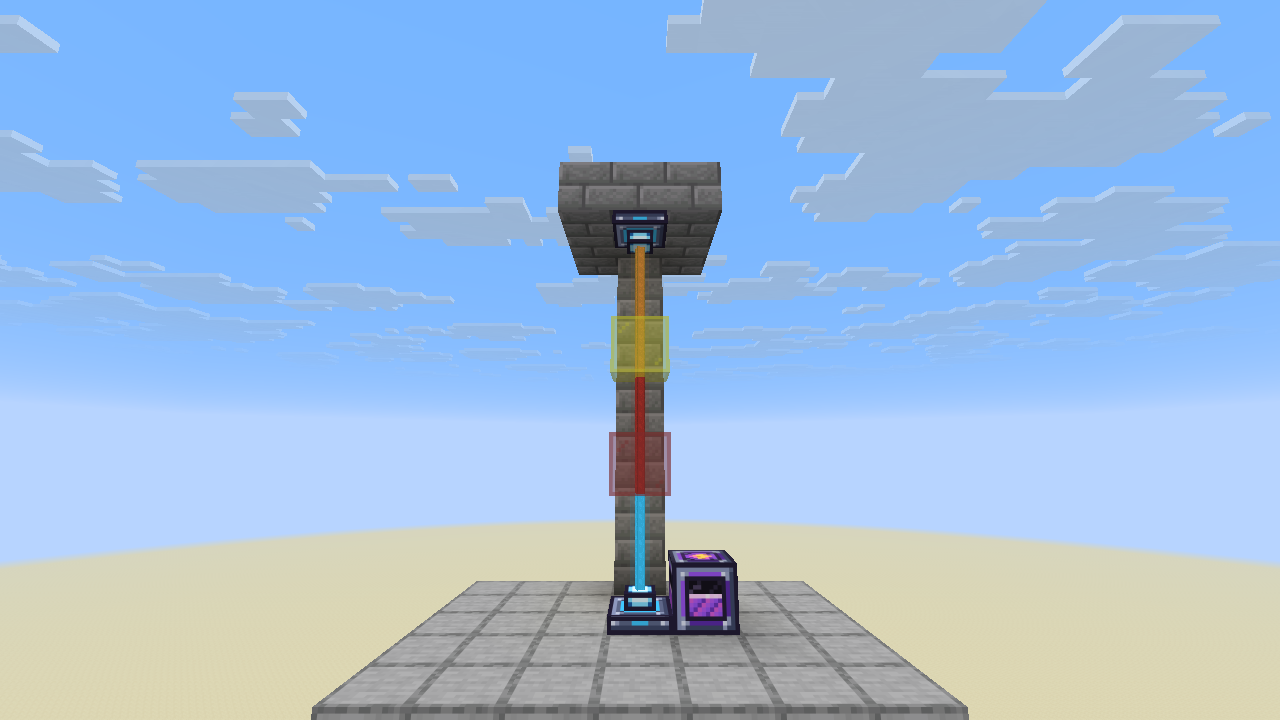
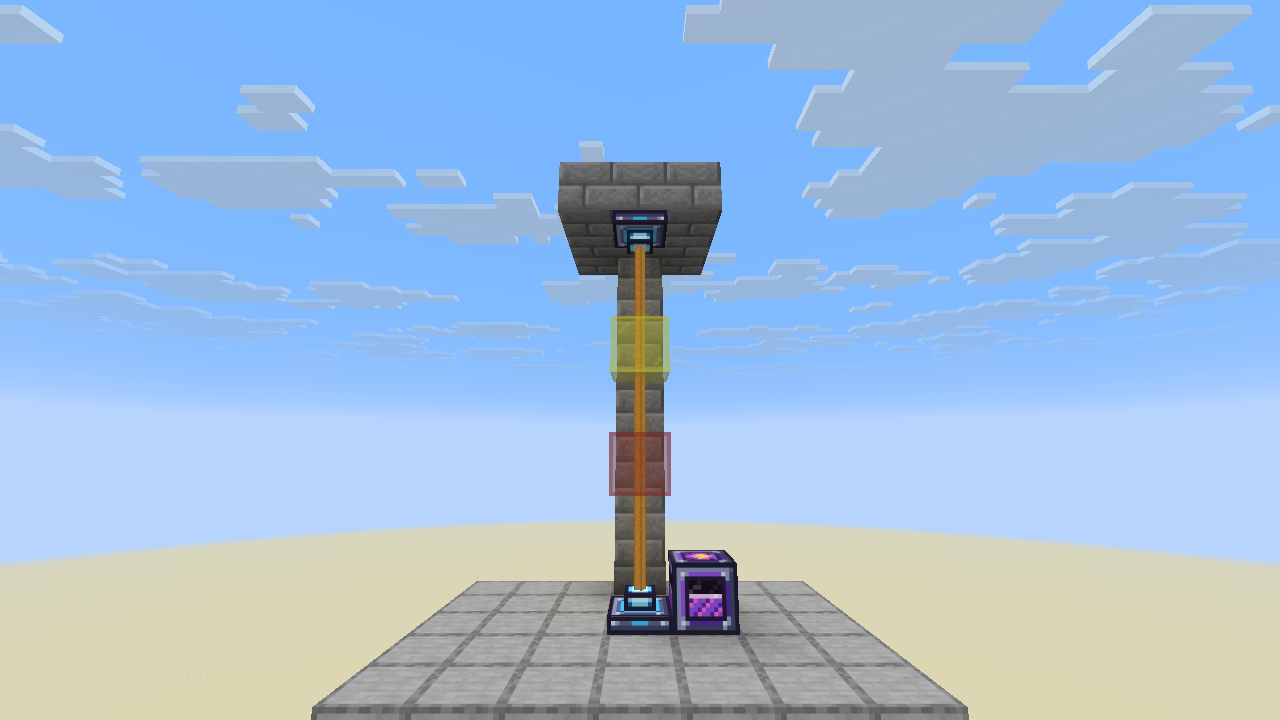
Colour the whole Zero Point beam with stained glass
Stained glass anywhere in the gap now colours the beam from end to end
in the glass's blended colour, instead of only from the glass upwards.

Claude-Session: https://claude.ai/code/session_012iurxobutw9xMP3SqHHLFE

diff --git a/src/main/java/com/jax3/barelyfunctionalcontraptions/sheep/gametest/ModGameTests.java b/src/main/java/com/jax3/barelyfunctionalcontraptions/sheep/gametest/ModGameTests.java
@@ -914,6 +914,7 @@ public final class ModGameTests {
         int[] mixed = zpeAt(h, floor).getBeamSections();
         int[] expected = {0, com.jax3.barelyfunctionalcontraptions.sheep.blockentity.ZeroPointEnergyModuleBlockEntity.BEAM_COLOR, 1, red, 2, net.minecraft.util.ARGB.average(red, yellow)};
         h.assertTrue(java.util.Arrays.equals(mixed, expected), "red then yellow glass: " + java.util.Arrays.toString(mixed));
+        h.assertTrue(zpeAt(h, floor).getBeamColor() == net.minecraft.util.ARGB.average(red, yellow), "the whole beam is drawn in the mixed colour");
         h.setBlock(floor.above(2), Blocks.STAINED_GLASS_PANE.red());
         int[] same = zpeAt(h, floor).getBeamSections();
         h.assertTrue(java.util.Arrays.equals(same, new int[] {0, com.jax3.barelyfunctionalcontraptions.sheep.blockentity.ZeroPointEnergyModuleBlockEntity.BEAM_COLOR, 1, red}), "the same colour twice is one section: " + java.util.Arrays.toString(same));
@@ -921,8 +922,10 @@ public final class ModGameTests {
         h.assertTrue(zpeAt(h, ceiling).getBeamSections().length == 0, "only the floor module keeps the colours");
         h.setBlock(floor.above(1), Blocks.AIR);
         h.assertTrue(java.util.Arrays.equals(zpeAt(h, floor).getBeamSections(), new int[] {0, com.jax3.barelyfunctionalcontraptions.sheep.blockentity.ZeroPointEnergyModuleBlockEntity.BEAM_COLOR, 2, red}), "a lone pane higher up starts there");
+        h.assertTrue(zpeAt(h, floor).getBeamColor() == red, "a lone pane high up still colours the whole beam");
         h.setBlock(floor.above(2), Blocks.AIR);
         h.assertTrue(java.util.Arrays.equals(zpeAt(h, floor).getBeamSections(), new int[] {0, com.jax3.barelyfunctionalcontraptions.sheep.blockentity.ZeroPointEnergyModuleBlockEntity.BEAM_COLOR}), "no glass: all blue");
+        h.assertTrue(zpeAt(h, floor).getBeamColor() == com.jax3.barelyfunctionalcontraptions.sheep.blockentity.ZeroPointEnergyModuleBlockEntity.BEAM_COLOR, "no glass: blue beam");
         h.setBlock(floor.above(2), Blocks.STONE);
         h.assertTrue(zpeAt(h, floor).getLinkDistance() == 0 && zpeAt(h, ceiling).getLinkDistance() == 0, "stone in the gap breaks the link");
         h.assertTrue(zpeAt(h, floor).getLink() == com.jax3.barelyfunctionalcontraptions.sheep.blockentity.ZeroPointLink.BLOCKED, "the floor module reports the beam is blocked");

diff --git a/src/main/java/com/jax3/barelyfunctionalcontraptions/sheep/blockentity/ZeroPointEnergyModuleBlockEntity.java b/src/main/java/com/jax3/barelyfunctionalcontraptions/sheep/blockentity/ZeroPointEnergyModuleBlockEntity.java
@@ -30,10 +30,10 @@ import net.neoforged.neoforge.transfer.transaction.Transaction;
  * module's buffer. The two buffers act as one pool: the energy capability of either module reaches both, and each
  * module pushes from the pool into its neighbours, so the pair's full output can be taken from either end.
  *
- * <p>The link distance and rate are synced to the client, which draws the beam and shows them in Jade. Like a beacon
- * beam, the beam is coloured by stained glass (blocks or panes) in its path: the first one sets its colour, and every
- * different one after that mixes with the colour so far. The floor module, which draws the beam, works out these
- * colour sections and syncs them too.</p>
+ * <p>The link distance and rate are synced to the client, which draws the beam and shows them in Jade. Stained glass
+ * (blocks or panes) in the gap colours the whole beam, mixed like a beacon beam's: the first one sets the colour, and
+ * every different one after that mixes with the colour so far. The floor module, which draws the beam, works out the
+ * colour sections and syncs them too; the beam is drawn in the last (fully mixed) one.</p>
  *
  * <p>The beam is dangerous: the floor module hurts every living thing touching it ({@code beamDamage}, with its own
  * "vaporised by a Zero Point beam" death message) and sets it on fire for {@code beamBurnSeconds}. With
@@ -333,6 +333,14 @@ public class ZeroPointEnergyModuleBlockEntity extends BlockEntity implements net
 
     public ZeroPointLink getLink() {
         return link;
+    }
+
+    /**
+     * The colour the whole beam is drawn in: the blended colour of all the stained glass in the gap (the last colour
+     * section), or {@link #BEAM_COLOR} with none.
+     */
+    public int getBeamColor() {
+        return beamSections.length >= 2 ? beamSections[beamSections.length - 1] : BEAM_COLOR;
     }
 
     /** The beam's colour sections as (start, colour) pairs; see {@link #beamSections}. */

diff --git a/src/main/java/com/jax3/barelyfunctionalcontraptions/sheep/client/ZeroPointBeamRenderer.java b/src/main/java/com/jax3/barelyfunctionalcontraptions/sheep/client/ZeroPointBeamRenderer.java
@@ -18,7 +18,7 @@ import org.jspecify.annotations.Nullable;
 /**
  * Draws the beam between a linked pair of Zero Point Energy Modules. Only the floor module (facing up) draws it,
  * from the tip of its emitter to the tip of the ceiling module's, using the beacon beam's geometry and texture. It is
- * blue, recoloured by stained glass in its path like a beacon beam (one piece per colour section).
+ * blue; stained glass anywhere in its path colours the whole beam, mixing colours like a beacon beam does.
  */
 public class ZeroPointBeamRenderer implements BlockEntityRenderer<ZeroPointEnergyModuleBlockEntity, ZeroPointBeamRenderer.State> {
     public static final int BEAM_COLOR = ZeroPointEnergyModuleBlockEntity.BEAM_COLOR;
@@ -53,17 +53,8 @@ public class ZeroPointBeamRenderer implements BlockEntityRenderer<ZeroPointEnerg
         // Both emitter tips are half a block into their blocks (the floor one at +0.5, the ceiling one at
         // distance + 0.5), so the beam is exactly as long as the distance between the two modules.
         float beamTop = distance + EMITTER_TIP;
-        int[] sections = be.getBeamSections();
-        if (sections.length < 2) {
-            state.pieces.add(new Piece(EMITTER_TIP, beamTop, BEAM_COLOR));
-            return;
-        }
-        // Stained glass recolours the beam from the glass block up, like a beacon beam.
-        for (int i = 0; i < sections.length; i += 2) {
-            float bottom = i == 0 ? EMITTER_TIP : sections[i];
-            float top = i + 2 < sections.length ? sections[i + 2] : beamTop;
-            if (top > bottom) state.pieces.add(new Piece(bottom, top, sections[i + 1]));
-        }
+        // Stained glass anywhere in the gap colours the whole beam, end to end, in the glass's (blended) colour.
+        state.pieces.add(new Piece(EMITTER_TIP, beamTop, be.getBeamColor()));
     }
 
     @Override

diff --git a/TESTING.md b/TESTING.md
@@ -77,10 +77,10 @@ In the real client (`15_fluid_reservoir.png`, `16_fluid_reservoir_gui.png`): the
 
 ### Zero Point Energy Module (`zero_point_modules_generate_across_a_gap`)
 
-A module pointing up on the floor and one pointing down three blocks above it link at distance 3, and report `LINKED`. Their GUI menus receive the link, distance, facing, generation, pair output and the pooled buffer size (both modules' buffers). Their output is 2 x `energyPerBlock` (a 2-block gap), and the two modules' shares add up to it. Both blockstates switch to `linked=true`. Glass in the gap keeps the link. Stained glass colours the beam like a beacon's: red glass then a yellow pane give sections *blue from the emitter, red from 1 block up, the average of red and yellow from 2 up*. Two reds in a row are one red section, and a lone pane higher up starts its colour there. Only the floor module (which draws the beam) keeps the sections, and the power doesn't change. Stone in the gap breaks it: both modules go back to `linked=false` and make nothing, and the floor module reports `BLOCKED` 2 blocks up. Two modules both pointing up don't link (`WRONG_FACING`, and the top one reports `NO_MODULE`), and nor do two touching modules (`TOO_CLOSE`). A Hume Energy Cube beside only the floor module receives the pair's full output: the ceiling module's half is drawn through the floor module, so its own buffer never builds up. In a second pair with nothing attached, the ceiling module's energy capability reports both buffers together, and one extraction from it takes the whole pool. Inserting FE into a module is refused. Each module's output limit is `maxOutput` (100,000 FE/t by default), raised to the pair's whole output when that is bigger: an unlinked module's limit is `maxOutput`, a pair making `maxOutput + 12,345` FE/t can give all of it out of one module, and a linked module's limit always covers its pair's output.
+A module pointing up on the floor and one pointing down three blocks above it link at distance 3, and report `LINKED`. Their GUI menus receive the link, distance, facing, generation, pair output and the pooled buffer size (both modules' buffers). Their output is 2 x `energyPerBlock` (a 2-block gap), and the two modules' shares add up to it. Both blockstates switch to `linked=true`. Glass in the gap keeps the link. Stained glass colours the beam, mixing like a beacon's: red glass then a yellow pane give sections *blue from the emitter, red from 1 block up, the average of red and yellow from 2 up*, and the whole beam is drawn in that mixed colour. Two reds in a row are one red section, a lone pane higher up still colours the whole beam, and with no glass the beam is blue. Only the floor module (which draws the beam) keeps the sections, and the power doesn't change. Stone in the gap breaks it: both modules go back to `linked=false` and make nothing, and the floor module reports `BLOCKED` 2 blocks up. Two modules both pointing up don't link (`WRONG_FACING`, and the top one reports `NO_MODULE`), and nor do two touching modules (`TOO_CLOSE`). A Hume Energy Cube beside only the floor module receives the pair's full output: the ceiling module's half is drawn through the floor module, so its own buffer never builds up. In a second pair with nothing attached, the ceiling module's energy capability reports both buffers together, and one extraction from it takes the whole pool. Inserting FE into a module is refused. Each module's output limit is `maxOutput` (100,000 FE/t by default), raised to the pair's whole output when that is bigger: an unlinked module's limit is `maxOutput`, a pair making `maxOutput + 12,345` FE/t can give all of it out of one module, and a linked module's limit always covers its pair's output.
 
 In the real client (`29_zero_point_modules.png`, `30_zero_point_jade.png`, `recipe_zero_point_energy_module.png`):
-- a floor module and a ceiling module under a stone overhang, 6 blocks apart, are joined by the blue beam, with both emitters lit. Looking up from underneath (`33_zero_point_beam_top.png`), the beam runs right into the ceiling module's emitter: it goes from the floor emitter's tip, half a block up, to the ceiling emitter's tip, half a block into its block, so it is exactly as long as the distance between the modules (it used to stop a block short). With red stained glass 2 blocks up and yellow 4 up (`34_zero_point_coloured_beam.png`), the beam is blue to the red glass, red to the yellow glass and orange from there to the ceiling module;
+- a floor module and a ceiling module under a stone overhang, 6 blocks apart, are joined by the blue beam, with both emitters lit. Looking up from underneath (`33_zero_point_beam_top.png`), the beam runs right into the ceiling module's emitter: it goes from the floor emitter's tip, half a block up, to the ceiling emitter's tip, half a block into its block, so it is exactly as long as the distance between the modules (it used to stop a block short). With red stained glass 2 blocks up and yellow 4 up (`34_zero_point_coloured_beam.png`), the whole beam, from the floor module to the ceiling module, is orange (it used to stay blue below the glass, like a beacon beam);
 - Jade on the floor module reads *Linked to the module above (5 block gap)* and *+5,000 FE/t, from either module*, with a 100 kFE pooled buffer that stays nearly empty because the floor module pushes the whole pool into the Hume Energy Cube next to it;
 - the recipe makes 2;
 - the GUI (`31_zero_point_gui.png`) shows the beam diagram with both modules lit and the beam between them, *of 100,000 FE*, *+5,000 FE/t*, *Shared pool*, *Out: 5,000 FE/t* (the full output, through the floor module alone) and a green *Linked: 5 block gap*;

diff --git a/README.md b/README.md
@@ -300,9 +300,9 @@ A generator that comes in pairs. Put one module on the floor and another on the 
 - **Counts as a player kill:** mobs the beam kills **drop experience** and **player-only loot** (blaze rods, a zombie's rare iron ingot, a wither skeleton's skull), just as if you had killed them yourself (`beamCountsAsPlayerKill`). The kill is credited to a fake player called *[Zero Point Beam]*, so it works even when nobody is nearby. A beam-and-hopper mob farm needs no player.
 
   ![A pig standing in a Zero Point beam, on fire and flashing red](docs/screenshots/35_zero_point_beam_burns.png)
-- **Coloured beams:** stained glass colours the beam just like a beacon beam. Put stained glass (blocks or panes) in the gap and the beam takes that colour from the glass upwards. Each further pane of a different colour mixes with the colour so far, so red then yellow gives orange. Glass of the same colour in a row changes nothing. The colour is only for looks: the power is the same.
+- **Coloured beams:** stained glass colours the beam. Put a stained glass block or pane anywhere in the gap and the **whole beam**, from one module to the other, takes its colour. Several colours mix the way a beacon beam's do (each different colour blends with the colour so far), so red and then yellow make an orange beam. Glass of the same colour in a row changes nothing. The colour is only for looks: the power is the same.
 
-  ![A Zero Point beam going blue, then red through red stained glass, then orange through yellow stained glass](docs/screenshots/34_zero_point_coloured_beam.png)
+  ![A Zero Point beam coloured orange from end to end by red and yellow stained glass in the gap](docs/screenshots/34_zero_point_coloured_beam.png)
 - **GUI:** right-click a module to open it. It's in the same slate style as the other machines:
   - an energy gauge for the pair's shared pool;
   - a **beam diagram**: the column with this module marked by a pointer, and at the far end what it found. When linked, both modules are lit with the animated beam between them. Otherwise it shows why: a blocking block (with a red cross) part of the way along, a partner that points the wrong way, a partner too close, or a dashed outline where a partner should go;
